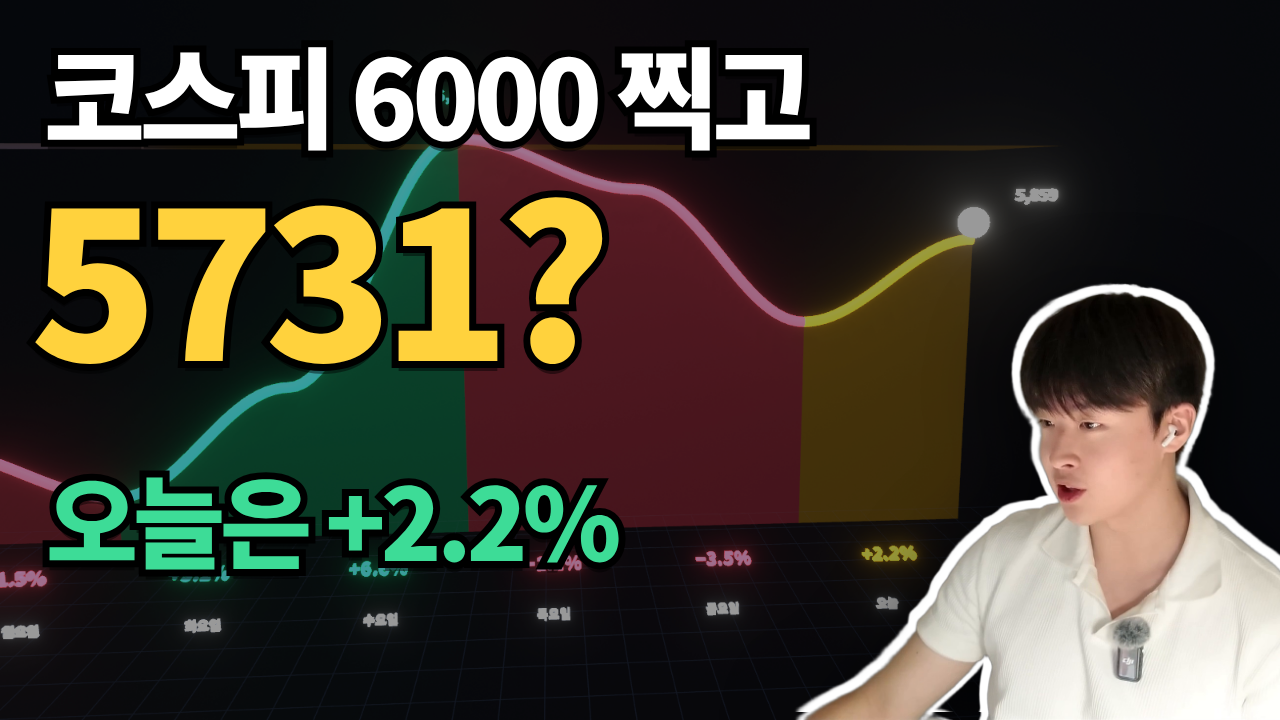
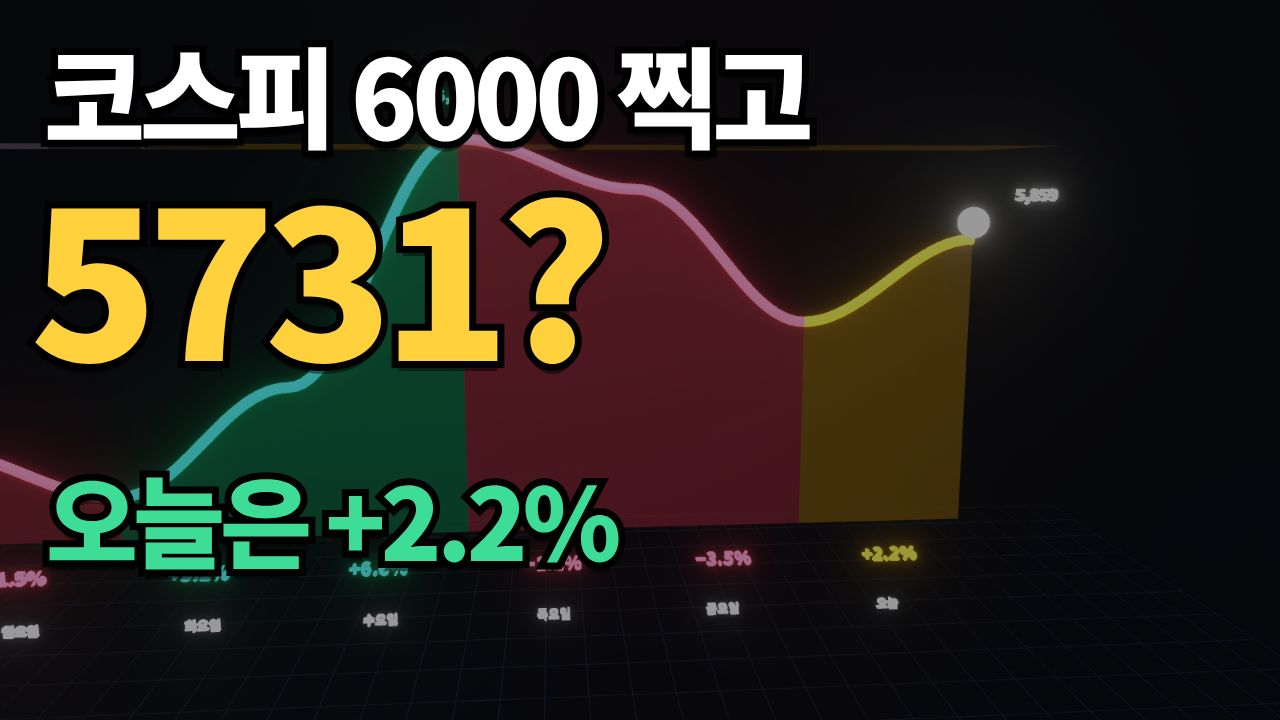
stock1102: remove face from thumbnail V2
Claude-Session: https://claude.ai/code/session_01HiQj88L9j1by8kHzqGvEqk

Changed region(s): [[0.625, 0.3972, 1.0, 1.0]]

diff --git a/youtube/stock1102/thumbnail/thumbs.html b/youtube/stock1102/thumbnail/thumbs.html
@@ -39,7 +39,7 @@ body{background:#000;font-family:'Noto Sans CJK KR',sans-serif}
  <div class="t c"><span>하닉 83조</span> <span class="gr">+11%</span></div><div class="t d">11월 첫 주 증시 정리</div></section>
 <section class="th" id="V2"><div class="bg"></div>
  <div class="t k">코스피 6000 찍고</div><div class="t num">5731?</div>
- <div class="t q">오늘은 +2.2%</div><img class="person" src="person.png"></section>
+ <div class="t q">오늘은 +2.2%</div></section>
 <section class="th" id="V3"><div class="bg"></div>
  <div class="t k">인텔 하루</div><div class="t num">−28.6%</div>
  <div class="t q">그런데 코스피 +2.2%</div></section>
